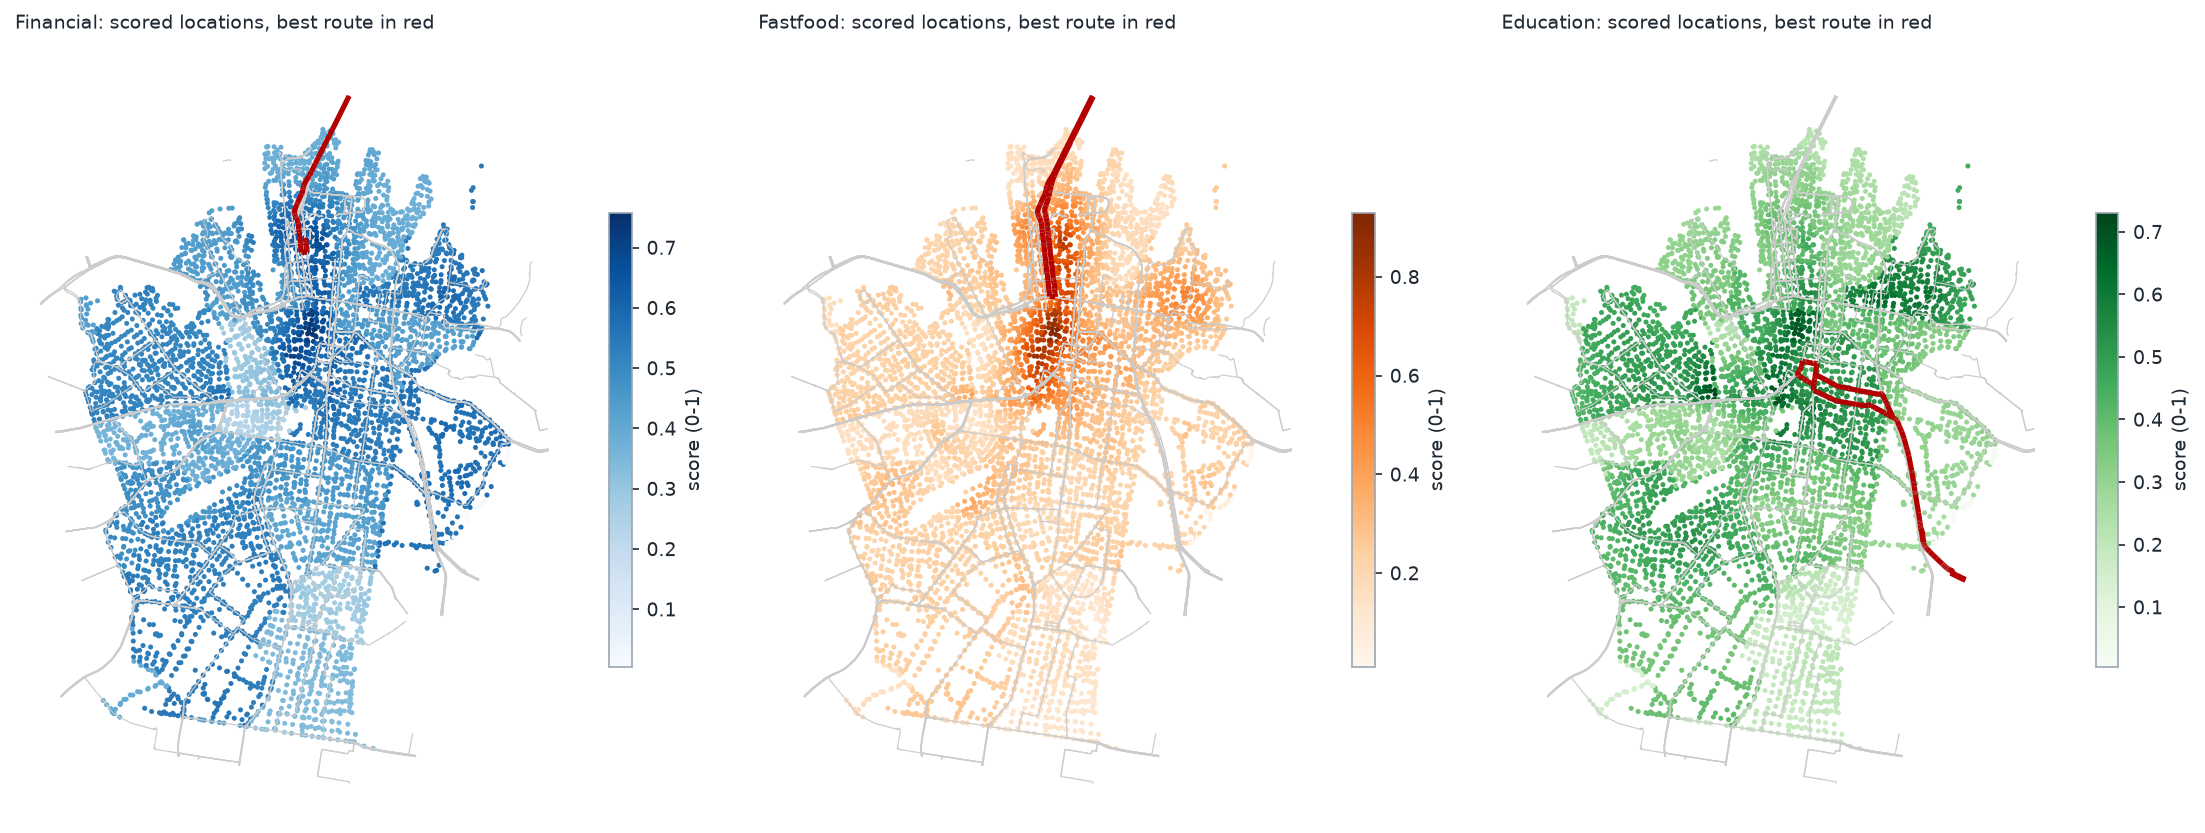
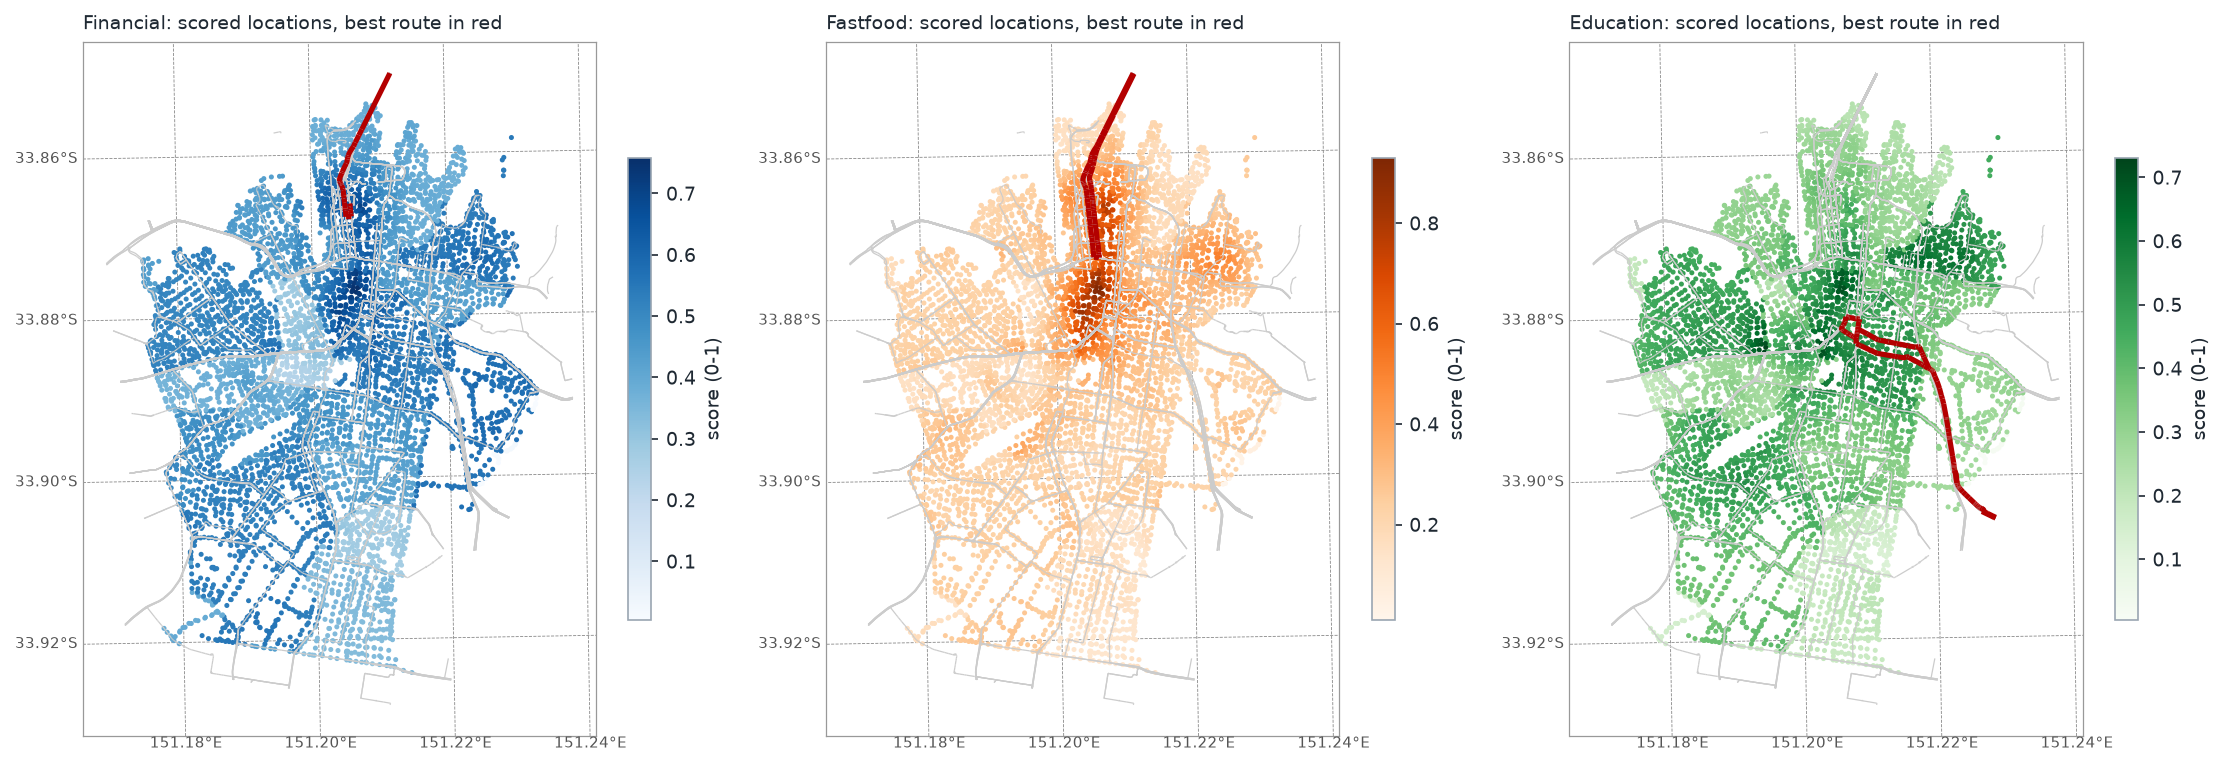
ch65: lon/lat graticule on every map (surfaces, scores)
Claude-Session: https://claude.ai/code/session_01LrW3HEoXn4tmE8wHVZrLtN

diff --git a/scripts/py/ch65_ooh_sydney.py b/scripts/py/ch65_ooh_sydney.py
@@ -47,6 +47,32 @@ def buffer_mean(raster, gdf, metres):
     return exact_extract(str(raster), polys, "mean", output="pandas")["mean"].values
 
 
+def graticule(ax, crs, n=4):
+    """Latitude/longitude lines and edge labels on a map drawn in projected
+    coordinates (metres), so every map can be located on the globe."""
+    from pyproj import Transformer
+    to_ll = Transformer.from_crs(crs, 4326, always_xy=True); to_xy = Transformer.from_crs(4326, crs, always_xy=True)
+    (x0, x1), (y0, y1) = ax.get_xlim(), ax.get_ylim()
+    lon, lat = to_ll.transform([x0, x1, x0, x1], [y0, y0, y1, y1])
+    span = max(max(lon) - min(lon), max(lat) - min(lat))
+    step = next(s for s in (0.01, 0.02, 0.05, 0.1, 0.2, 0.25, 0.5, 1, 2, 5) if span / s <= n + 1)
+    fmt = lambda v, pos, neg: f"{abs(v):.{max(0, -int(np.floor(np.log10(step))))}f}°{pos if v >= 0 else neg}"
+    for lo in np.arange(np.ceil(min(lon) / step) * step, max(lon), step):
+        xs, ys = to_xy.transform(np.full(50, lo), np.linspace(min(lat) - step, max(lat) + step, 50))
+        ax.plot(xs, ys, color="#888888", lw=0.4, ls="--", zorder=0.5)
+        bx, _ = to_xy.transform(lo, min(lat))
+        ax.text(bx, y0, fmt(lo, "E", "W"), ha="center", va="top", fontsize=7, color="#555555")
+    for la in np.arange(np.ceil(min(lat) / step) * step, max(lat), step):
+        xs, ys = to_xy.transform(np.linspace(min(lon) - step, max(lon) + step, 50), np.full(50, la))
+        ax.plot(xs, ys, color="#888888", lw=0.4, ls="--", zorder=0.5)
+        _, by = to_xy.transform(min(lon), la)
+        ax.text(x0, by, fmt(la, "N", "S") + " ", ha="right", va="center", fontsize=7, color="#555555")
+    ax.set_xlim(x0, x1); ax.set_ylim(y0, y1)
+    ax.set_xticks([]); ax.set_yticks([]); ax.set_xlabel(""); ax.set_ylabel("")
+    for s in ax.spines.values():
+        s.set_visible(True); s.set_color("#999999"); s.set_linewidth(0.6)
+
+
 # PART 1. Training points and predictor surfaces --------------------------------
 _cache = {}
 
@@ -290,7 +316,7 @@ def map_figure():
         site.plot(ax=ax, column=k, cmap=cmap, markersize=2, legend=True,
                   legend_kwds={"shrink": 0.6, "label": "score (0-1)"})
         ax.set_title(f"{k.replace('MCDA_', '').title()}: scored locations, best route in red", loc="left", fontsize=9)
-        ax.set_axis_off()
+        graticule(ax, site.crs, n=4)
     fig.tight_layout()
     return fig
 
@@ -306,12 +332,12 @@ def surfaces_figure():
         with rasterio.open(DATA / "surfaces" / f"{name}.tif") as src:
             r, b = src.read(1), src.bounds
         ax.imshow(np.log1p(np.clip(r, 0, None)), extent=[b.left, b.right, b.bottom, b.top], cmap="magma")
-        ax.set_title(name.replace("_", " "), loc="left", fontsize=9); ax.set_axis_off()
+        ax.set_title(name.replace("_", " "), loc="left", fontsize=9); graticule(ax, "EPSG:7856", n=4)
     ax = axs.flat[-1]
     ok = counts[TARGET].notna()
     counts[ok].plot(ax=ax, column=TARGET, cmap="viridis", markersize=4 + 60 * counts[ok][TARGET] / counts[TARGET].max(),
                     legend=True, legend_kwds={"shrink": 0.6, "label": "weekday pedestrians"})
-    ax.set_title("target: weekday walking count", loc="left", fontsize=9); ax.set_axis_off()
+    ax.set_title("target: weekday walking count", loc="left", fontsize=9); graticule(ax, counts.crs, n=4)
     fig.suptitle("Predictor surfaces (log scale) and the counted sites", x=0.01, ha="left", fontsize=11)
     fig.tight_layout()
     return fig
